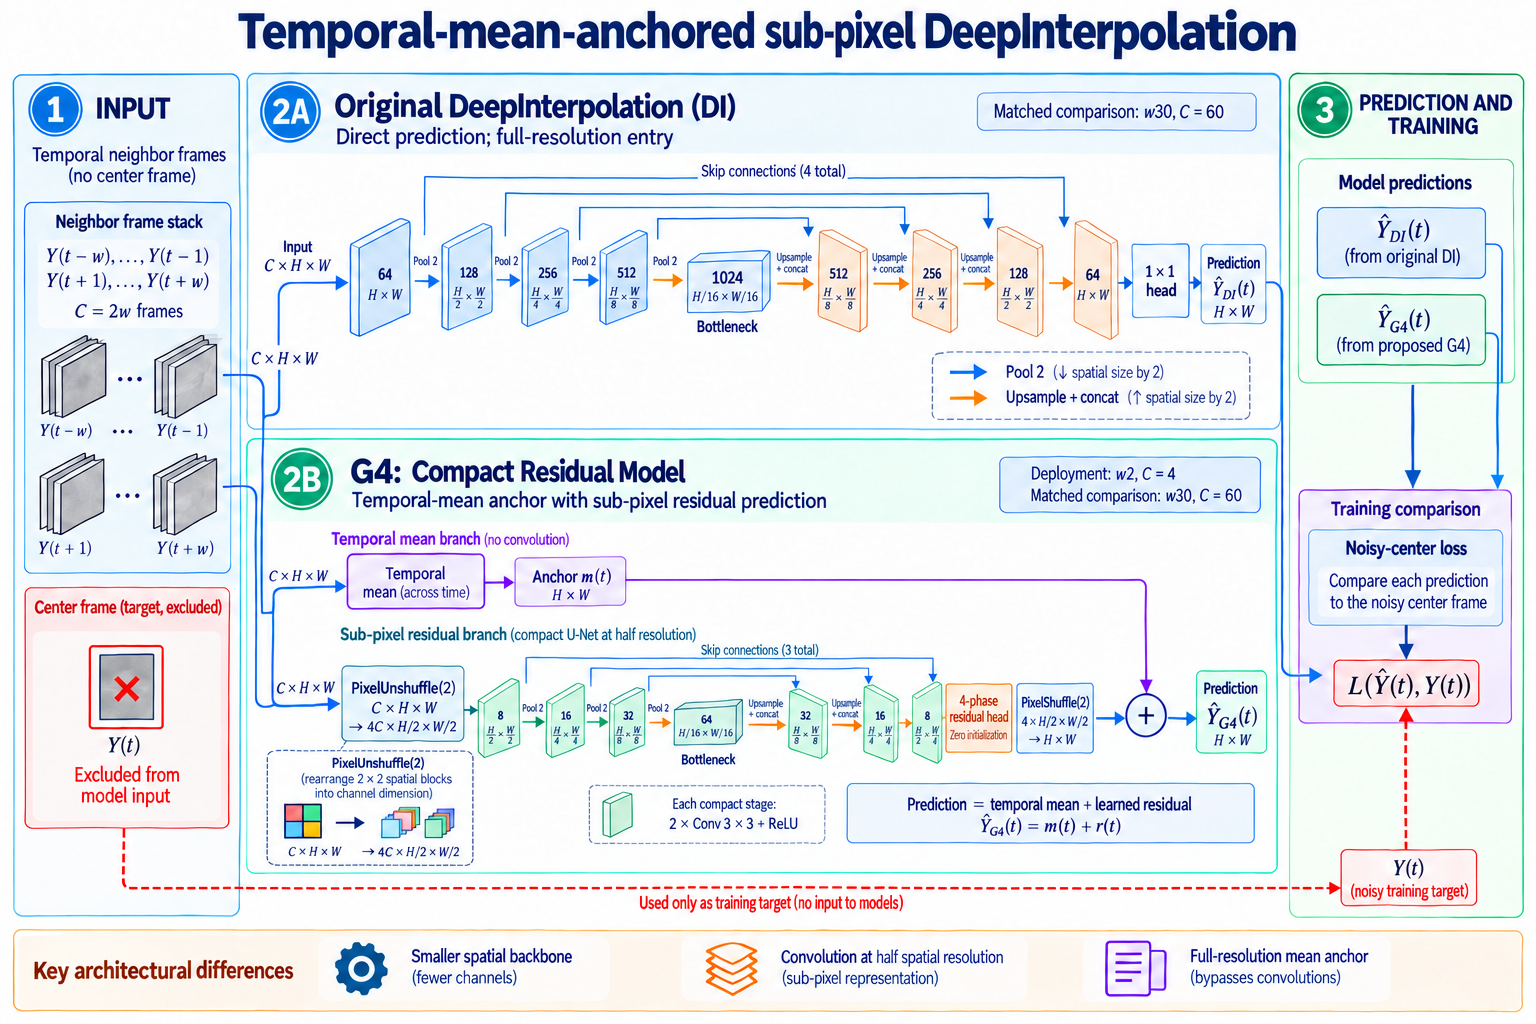
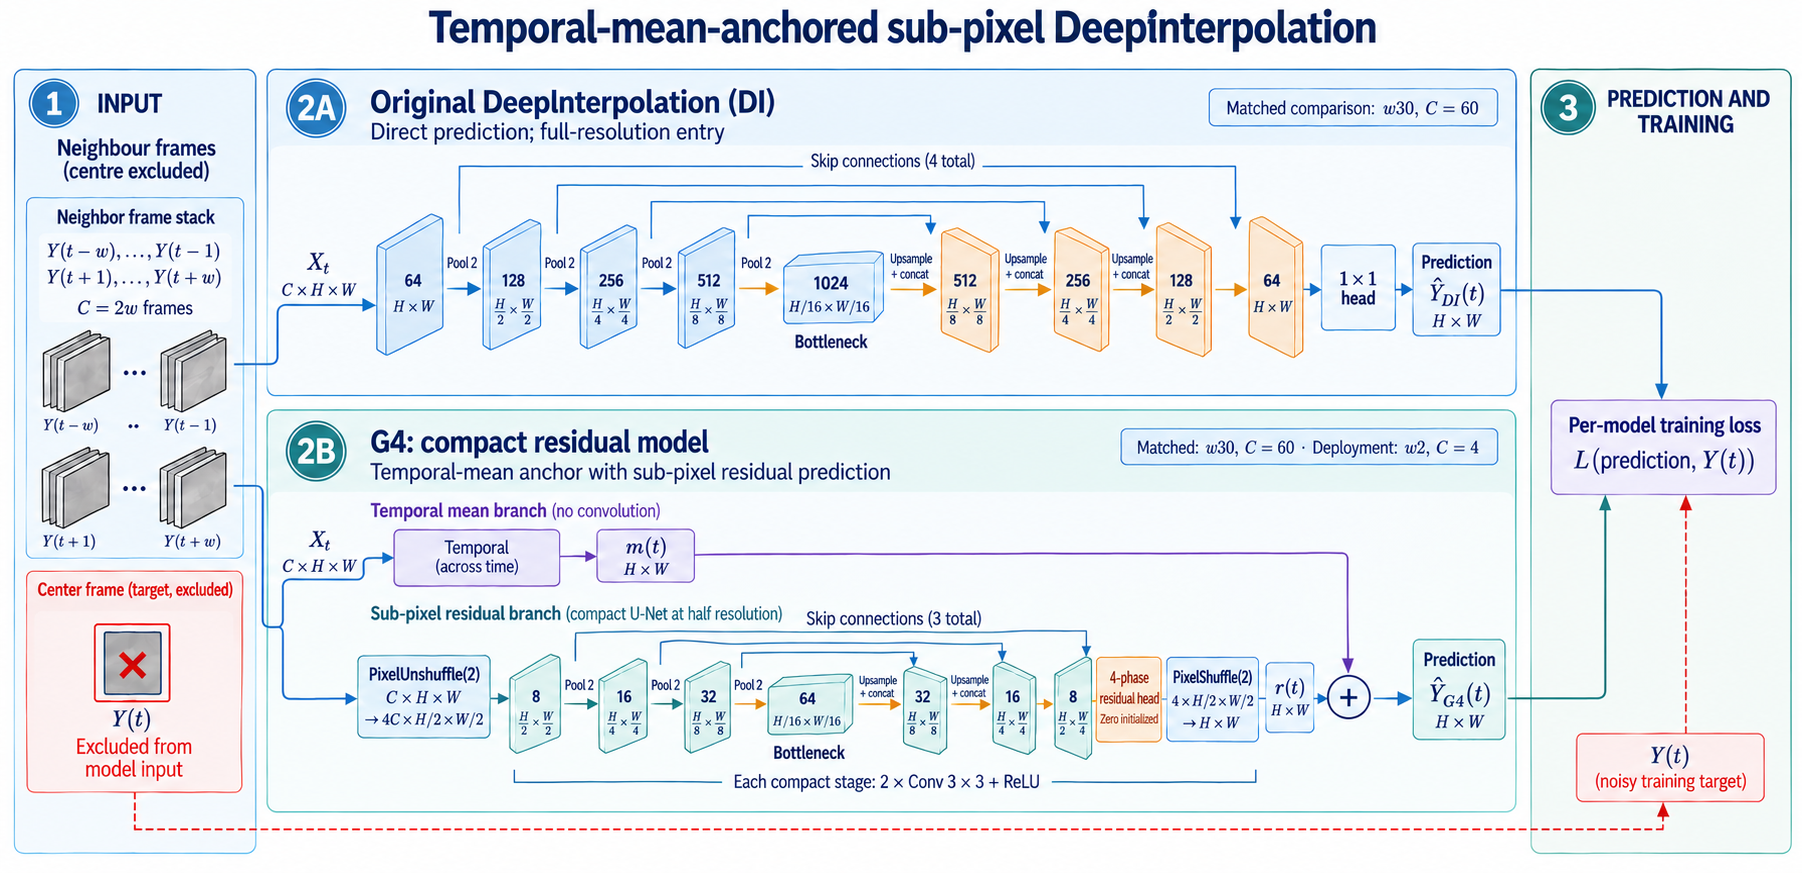
results: correct event ROC indexing and refine architecture figure

diff --git a/docs/event_roc_correction.md b/docs/event_roc_correction.md
@@ -1,0 +1,34 @@
+# Event ROC correction and current results
+
+Updated 12 October 2026. This correction replaces the event ROC endpoints in release `4788fc2`. Existing seed-0 simulation checkpoints were re-evaluated in FP32; no training was started. The experiment catalog remains at 124 entries, with 16,677 scalar rows after adding the threshold, empirical false-positive rate and descriptive bootstrap bounds.
+
+## What changed and why
+
+Prediction row 0 represents original frame 2. The old evaluator used the original event frame as a row number, shifting both peak and baseline windows by two frames. The corrected calculation looks up each original frame explicitly: peak `[t_e-2,t_e+2]`, baseline median `[t_e-8,t_e-4]`. Positive and negative windows use the same mapping.
+
+The saved ROC curve also used to sort points by false-positive rate alone and omitted the final endpoint. It now follows descending score thresholds, including `(0,0)` and `(1,1)`; curve integration agrees with the independently computed rank AUC. This curve repair does not change the rank-based scalar AUC.
+
+## Corrected final endpoints
+
+Each noise condition uses signal seed 300, Poisson peak 16 or 32, Gaussian SD 0.03, 30 events from cells 3–7, and 708 overlapping no-event windows from cells 0–2. The score is projected peak fluorescence minus the preceding median. Sensitivity uses the negative-score 95th percentile. This is a nominal 5% operating point; the empirical FPR is measured, not bounded by assumption.
+
+| Model | Peak | AUC | Descriptive bootstrap 95% interval | Sensitivity (%) | Empirical FPR (%) |
+|---|---:|---:|---|---:|---:|
+| g4 | 16 | 1.000000 | 1.000000–1.000000 | 100.0 | 5.085 |
+| g4 | 32 | 1.000000 | 1.000000–1.000000 | 100.0 | 5.085 |
+| g2 | 16 | 0.999812 | 0.999247–1.000000 | 100.0 | 5.085 |
+| g2 | 32 | 1.000000 | 1.000000–1.000000 | 100.0 | 5.085 |
+| g8 | 16 | 0.997646 | 0.994114–0.999953 | 100.0 | 4.802 |
+| g8 | 32 | 0.999341 | 0.997974–1.000000 | 100.0 | 5.085 |
+| temporal_mean | 16 | 0.998258 | 0.995009–0.999953 | 100.0 | 5.085 |
+| temporal_mean | 32 | 0.999153 | 0.997363–1.000000 | 100.0 | 4.944 |
+
+The full-precision values, thresholds, counts and bootstrap bounds are in [results.csv](../results/results.csv). The 1,000-draw, seed-0 bootstrap resamples diagnostic event/window scores. Its intervals are descriptive: negative windows overlap, the two movies share a signal seed, and event-bearing and non-event cell types differ. They do not measure independent-film or biological replication.
+
+G4 has AUC 1.000000 at both noise levels, while every arm reaches 100% sensitivity at this threshold. The ROC diagnostic is therefore close to its ceiling even for temporal averaging. It supports event separability in this simulator; amplitude and peak-time errors answer different questions and remain the dynamic-response endpoints. This correction does not establish a new denoising-quality or biological-fidelity advantage.
+
+## Verification and figure
+
+Original-frame window tests cover several prediction start offsets and non-contiguous rows. Corrected event scores equal the independently implemented amplitude-diagnostic values. sklearn rank AUC agrees with saved AUC and curve integration for all eight conditions. Checkpoint and input-configuration identities are unchanged, and all 16,613 unrelated scalar rows match the preceding release.
+
+The [architecture figure](../results/figure/architecture_comparison.png) keeps horizontal model chains compared above/below, removes the four-item footer and redundant prediction cards, uses quieter colors, and separates both prediction-to-loss paths. It is an explanatory image revised with OpenAI imagegen on 12 October 2026; the interface did not expose the image model version. The local manuscript places it on a portrait page.

diff --git a/results/README.md b/results/README.md
@@ -2,7 +2,7 @@
 
 G4 combines a full-resolution temporal-mean anchor, a compact phase-domain residual U-Net and a zero-initialized output head. The primary contribution is retention of measured reconstruction PSNR with far less computation than the original DeepInterpolation architecture.
 
-This page shares 124 experiment entries and 16,645 scalar endpoint rows. The capacity collection contains 405 trained runs and 135 deterministic baseline evaluations; the formal attribution study contains 252 trained runs plus nine temporal means. Normally completed controls are included whether their numerical result improves the baseline or not.
+This page shares 124 experiment entries and 16,677 scalar endpoint rows. The capacity collection contains 405 trained runs and 135 deterministic baseline evaluations; the formal attribution study contains 252 trained runs plus nine temporal means. Normally completed controls are included whether their numerical result improves the baseline or not.
 
 - [Experiment names, changes and purposes](experiments.csv)
 - [Complete final scalar results](results.csv)
@@ -27,6 +27,25 @@ Values are seed-0 validation PSNR (dB), after 75 epochs and objective-specific v
 PSNR uses each noisy target frame's range; clean PSNR is a separate synthetic diagnostic endpoint. Historical gSSIM and standard local SSIM are distinct. Frozen evaluation segments were previously inspected. `model forward`, `sequence processing` and `GPU-resident sequence compute` are separate timing scopes. Device and warmup details are supplied per row; a missing recorded GPU name is not inferred. The 4060 Laptop measurements are not reassigned to the 5070 Ti. Conv3d arithmetic includes the temporal kernel; the adapted DeepCAD-RT arm reports 254.611 GFLOPs at 512x512 and 242.800 GFLOPs at 498x490. Acquisition waiting is excluded from process timing.
 
 Additional-recording validation trains on 02.00/04.00; it is not zero-shot transfer. Suite2p counts detected ROIs, and trace variability uses each condition's detected set. The mean anchor, clean image error, amplitude response, noise-floor estimates and ROI counts are different endpoints.
+
+## Corrected event ROC (12 October 2026)
+
+The original-frame event number is now mapped to the prediction row for both peak and baseline windows. Existing seed-0 simulation checkpoints were re-evaluated without training. The saved ROC curves now include both endpoints and preserve threshold ordering. The scalar AUC uses pairwise ranking with half credit for ties.
+
+Each condition has 30 events and 708 overlapping no-event windows. Sensitivity is measured at the negative-score 95th percentile; the empirical FPR is reported rather than assumed to be at most 5%. Bootstrap intervals describe resampling of these diagnostic scores, not independent movies or biological replication.
+
+| Model | Poisson peak | AUC | Descriptive 95% bootstrap interval | Sensitivity (%) | Empirical FPR (%) |
+|---|---:|---:|---|---:|---:|
+| g4 | 16 | 1.000000 | 1.000000--1.000000 | 100.0 | 5.085 |
+| g4 | 32 | 1.000000 | 1.000000--1.000000 | 100.0 | 5.085 |
+| g2 | 16 | 0.999812 | 0.999247--1.000000 | 100.0 | 5.085 |
+| g2 | 32 | 1.000000 | 1.000000--1.000000 | 100.0 | 5.085 |
+| g8 | 16 | 0.997646 | 0.994114--0.999953 | 100.0 | 4.802 |
+| g8 | 32 | 0.999341 | 0.997974--1.000000 | 100.0 | 5.085 |
+| temporal_mean | 16 | 0.998258 | 0.995009--0.999953 | 100.0 | 5.085 |
+| temporal_mean | 32 | 0.999153 | 0.997363--1.000000 | 100.0 | 4.944 |
+
+G4 AUC is 1.000000 at both noise levels. All arms reach 100% sensitivity here, so this diagnostic offers limited separation; amplitude and peak-time errors remain separate dynamic endpoints. [Correction and interpretation](../docs/event_roc_correction.md).
 
 ## Capacity and block study
 

diff --git a/README.md b/README.md
@@ -8,7 +8,9 @@
 
 The principal result is **temporal-mean-anchored compact sub-pixel residual reconstruction**. At matched w30 (60 context frames), G4 has **139,204 parameters** versus **15,704,769** for original-architecture DI: **112.8x fewer parameters**, **80.4–83.9x lower convolution arithmetic**, and **3.7–4.2x faster isolated batch-1 forward execution** on RTX 5070 Ti. Seed-0 validation reconstruction PSNR differs from MSE-DI by less than **0.009 dB** on each of three recordings.
 
-The result collection contains **124 experiment entries and 16,645 scalar endpoints**: capacity, G1–G5 attribution, original DI MAE/MSE, structural/window and widening controls, simulation, standard local SSIM, efficiency, ROI/Suite2p, causal inputs and additional-recording validation. Completed individual seeds and their descriptive summaries are distinguished. See the [technical explanation](docs/technical_report.md) for the contribution and measurement definitions. Model-forward and whole-process timings are reported separately.
+The result collection contains **124 experiment entries and 16,677 scalar endpoints**: capacity, G1–G5 attribution, original DI MAE/MSE, structural/window and widening controls, simulation, standard local SSIM, efficiency, ROI/Suite2p, causal inputs and additional-recording validation. Completed individual seeds and their descriptive summaries are distinguished. See the [technical explanation](docs/technical_report.md) for the contribution and measurement definitions. Model-forward and whole-process timings are reported separately.
+
+The [event ROC correction](docs/event_roc_correction.md) maps original frame numbers to prediction rows and reports measured false-positive rates. Existing weights were re-evaluated without training; G4 AUC is 1.000000 at both diagnostic noise levels.
 
 ![Original DI and compact G4 information flow](results/figure/architecture_comparison.png)
 

diff --git a/MEMORY.md b/MEMORY.md
@@ -16,3 +16,9 @@
 G4贡献为时间均值锚定的紧凑子像素残差模型；匹配w30参数139,204，相对原版DI减少112.8倍，卷积算术80.4–83.9倍减少，5070 Ti孤立前向3.7–4.2倍提速，seed0三记录相对MSE-DI验证PSNR差<0.009dB。完整流程分列且不宣称一致提速。DeepCAD-RT卷积算术补齐时间核；新增记录经过重新训练。
 
 不新增训练历史、失败中断记录、配置/脚本、权重或校验清单。论文源稿和全文PDF留本地研究项目。imagegen图是解释性模型图，工具和使用日期已声明，接口未暴露模型版本。数值与公开分发检查完成后推送，保留公开仓库原历史和远端，不force、不改为子模块。
+
+## 2026-10-12 事件 ROC 更正与精简稿
+
+原始帧20映射预测行18；事件和负例搜索/基线窗均按查表处理。现有 G4/G2/G8 权重及参数无训练均值基线在 FP32 重新评价，未训练或测速。G4 两条件 AUC=1；四方法灵敏度均100%，实测FPR4.802%–5.085%。独立 sklearn/曲线积分/幅值路径验证8条件，6测试通过；16,613非ROC标量不变，公开集合124条目/16,677标量。负例窗重叠、信号种子共享，bootstrap为描述性；AUC天花板不证明幅值保真。
+
+英文稿参考文献前7页、全稿8页，11pt/22mm保留；所有页面竖向，4图3表。框架图维持初版横向上下对比，删除四块底部注释及重复预测卡，调柔配色，DI/G4输出各自到损失，中心仅进目标。imagegen未返回模型版本，最终提示和数值核查保留研究 artifacts/event_roc_correction_20261012/。数值图2–4像素及最终字节不变。论文全文不推送；公开表、图和说明经核验后正常推送独立main。作者声明/CRediT仍待确认。

diff --git a/README.zh-CN.md b/README.zh-CN.md
@@ -8,7 +8,9 @@
 
 主要成果是**时间均值锚定的紧凑子像素残差重建模型**。匹配 w30（60 帧上下文）时，G4 为 **139,204** 参数，原版架构 DI 为 **15,704,769** 参数：参数减少 **112.8 倍**，卷积算术减少 **80.4–83.9 倍**，RTX 5070 Ti 上批量 1 独立前向提速 **3.7–4.2 倍**。三记录 seed 0 的验证重建 PSNR 与 MSE-DI 的差均小于 **0.009 dB**。
 
-公开结果包含 **124 个实验条目和 16,645 个标量指标**，覆盖容量、G1–G5 归因、原版 DI 的 MAE/MSE、结构与窗口、下采样加宽、仿真、标准局部 SSIM、效率、ROI/Suite2p、因果输入和新增记录验证。已有完整单种子结果与多种子汇总分别标识；各实验说明改动、测试目的和最终数值。贡献与测量定义见[解释报告](docs/technical_report.zh-CN.md)。模型前向和完整流程时间分列。
+公开结果包含 **124 个实验条目和 16,677 个标量指标**，覆盖容量、G1–G5 归因、原版 DI 的 MAE/MSE、结构与窗口、下采样加宽、仿真、标准局部 SSIM、效率、ROI/Suite2p、因果输入和新增记录验证。已有完整单种子结果与多种子汇总分别标识；各实验说明改动、测试目的和最终数值。贡献与测量定义见[解释报告](docs/technical_report.zh-CN.md)。模型前向和完整流程时间分列。
+
+[事件 ROC 更正说明](docs/event_roc_correction.md)：已修复原始帧号到预测行号的映射，使用原有权重重新评价，并补充实测假阳性率。G4 两个仿真噪声条件的 AUC 均为 1.000000；各方法的灵敏度均达到 100%，正文以幅值和峰时指标区分动态响应。
 
 ![原版 DI 与 G4 的信息流](results/figure/architecture_comparison.png)
 

diff --git a/docs/technical_report.md b/docs/technical_report.md
@@ -27,6 +27,10 @@ The 405 trained capacity runs compare width, depth and block choices, alongside 
 
 Clean-reference simulation reports G4/G2 PSNR of 42.22/44.08 dB and relative amplitude error of 0.390/0.491. Standard local SSIM is separate from whole-frame gSSIM: five-seed G4/G2 means are 0.7012/0.7005, 0.9711/0.9710 and 0.6008/0.6013. Suite2p ROI counts change from 245/434/412 to 437/816/1176, accompanied by lower median relative trace noise. Past-only offsets (-2,-1) retain validation PSNR within 0.025 dB of matched symmetric runs. The fixed design, separately retrained on 02.00/04.00, gives 26.6323/34.6562 dB; this is additional-recording validation.
 
+## Corrected event ROC
+
+The [corrected diagnostic](event_roc_correction.md) uses original-frame lookup for both peak and baseline windows. G4 AUC is 1.000000 at peaks 16/32; the four arms span 0.997646–1.000000. All reach 100% sensitivity at the negative-score 95th percentile, with empirical FPR 4.802–5.085%. Descriptive bootstrap intervals and thresholds are shared in the scalar table. The ceiling result does not distinguish transient-amplitude fidelity. Existing weights were evaluated without training.
+
 ## Measurement definitions
 
 Real-data PSNR uses the observed centre frame's intensity range; clean PSNR refers to synthetic ground truth. Historical evaluation segments were previously inspected. Seed counts and split labels accompany every endpoint. ROI counts and trace variability describe the detected sets and are not measures of detection accuracy.
